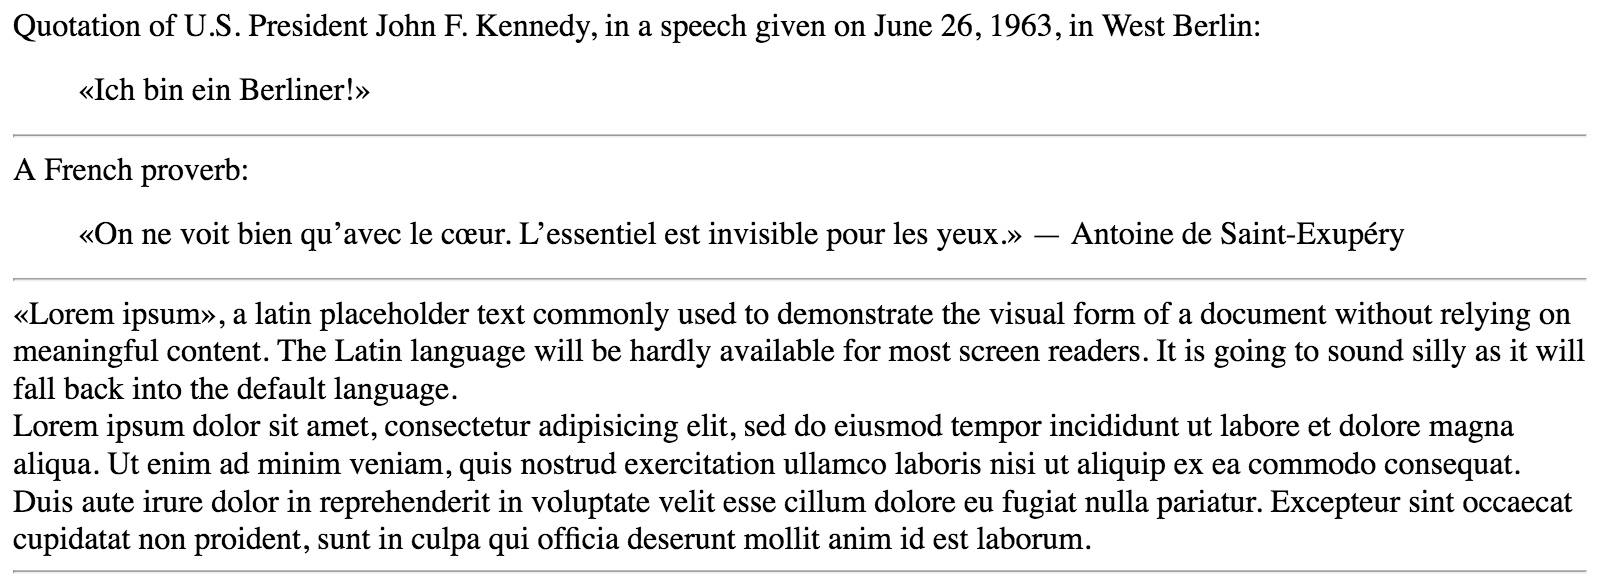
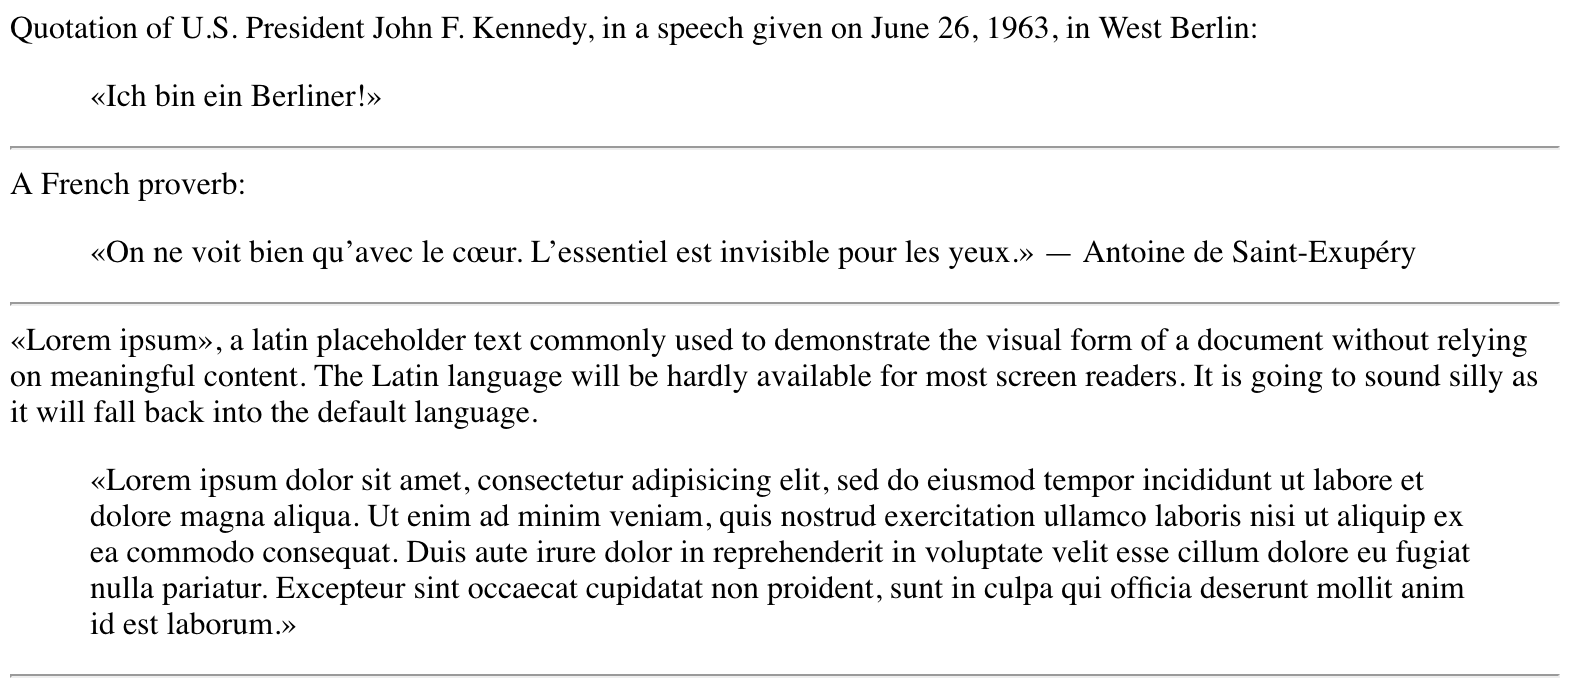
Added more content

Changed region(s): [[0.0, 0.3402, 0.9987, 0.9897], [0.0, 0.1237, 0.9675, 0.3093], [0.0, 0.0, 0.8115, 0.0928]]

diff --git a/pages/examples/html_boilerplate/_examples/languages/index.html b/pages/examples/html_boilerplate/_examples/languages/index.html
@@ -9,6 +9,6 @@ A French proverb:
 </blockquote>
 <hr>
 «Lorem ipsum», a latin placeholder text commonly used to demonstrate the visual form of a document without relying on meaningful content. The Latin language will be hardly available for most screen readers. It is going to sound silly as it will fall back into the default language.
-<div lang="la">
-  Lorem ipsum dolor sit amet, consectetur adipisicing elit, sed do eiusmod tempor incididunt ut labore et dolore magna aliqua. Ut enim ad minim veniam, quis nostrud exercitation ullamco laboris nisi ut aliquip ex ea commodo consequat. Duis aute irure dolor in reprehenderit in voluptate velit esse cillum dolore eu fugiat nulla pariatur. Excepteur sint occaecat cupidatat non proident, sunt in culpa qui officia deserunt mollit anim id est laborum.
-</div>
+<blockquote lang="la">
+  «Lorem ipsum dolor sit amet, consectetur adipisicing elit, sed do eiusmod tempor incididunt ut labore et dolore magna aliqua. Ut enim ad minim veniam, quis nostrud exercitation ullamco laboris nisi ut aliquip ex ea commodo consequat. Duis aute irure dolor in reprehenderit in voluptate velit esse cillum dolore eu fugiat nulla pariatur. Excepteur sint occaecat cupidatat non proident, sunt in culpa qui officia deserunt mollit anim id est laborum.»
+</blockquote>

diff --git a/pages/examples/html_boilerplate/README.md b/pages/examples/html_boilerplate/README.md
@@ -6,7 +6,7 @@ changed: "2018-09-02"
 
 # Basic structure of an accessible HTML file
 
-**An HTML file has a clearly defined structure that allows the browser to render its content correctly. To make an HTML file accessible beyond its content you need to know the basic structure and it parts.**
+**An HTML file has a clearly defined structure that allows any browser to render the content correctly. To make an HTML file accessible you need to know the basic structure and its roles.**
 
 As you learned for sure each HTML file consists on the same structure that includes the declaration of the document type, a header part that describes the document followed by a body that contains the actual content:
 
@@ -25,13 +25,21 @@ As you learned for sure each HTML file consists on the same structure that inclu
 ```
 
 ## What language are you speaking?
-We are used to regonize in which language a text is written simply by skimming over the text. When using assistive technologies such as screen readers it is crucial to know the language of the content in advance. In the example of a screen reader the synthesizer needs to know which language the content is to pronunciate the output correclty. Otherwise it will sound strange even if you understand the other language.
+We are used to regonize in which language a text is written simply by skimming over the text. When using assistive technologies such as screen readers it is crucial to know the language of the content in advance. In the example of a screen reader the synthesizer needs to know which language the content is to pronunciate the output correclty. Otherwise it will be hard to understand even if you know the other language.
 
 By adding the language attribute `lang` to any HTML tag we can define the language of the enclosed content. `<html lang="en">` for example defines the documents content by default as english. To override the document language partially you can apply the language attribute to any other HTML tag in the content.
 
 [Example](_examples/languages)
 
+### Do not overdo
+In an extreme case you may translate individual words, i.e `<span lang="de">Zugänglichkeit<span>`. I the example of a screen reader, everytime the language is changing, the voice has to be changed to. This may interupt the output for a brief moment. This can break the flow for example when marking each and every foreign word in a longer text. Sometimes it is better to leave the word unmarked especially for simple end expectable words.
+
 ## A document should have a meaningful title
+The title element in the header section phrase the purpose of the document in the browser toolbar, provides a name when a page is added to favorites and displays the title for the page in search engine results. In addition it plays an important role in accessibility.
+
+When using a screen reader the title element will be announced after the page is loaded. This enables users to orient themself within a website without scanning the whole content. A meaningful title could be «Contact form».
+
+In addition the title element can be used to gain users attention, for example when a validation failed after submiting a form, i.e «Contact form could not be sent. Please provide a valid email address.».
 
 ## Set the viewport to the width of the device
 https://developers.google.com/web/tools/lighthouse/audits/has-viewport-meta-tag
